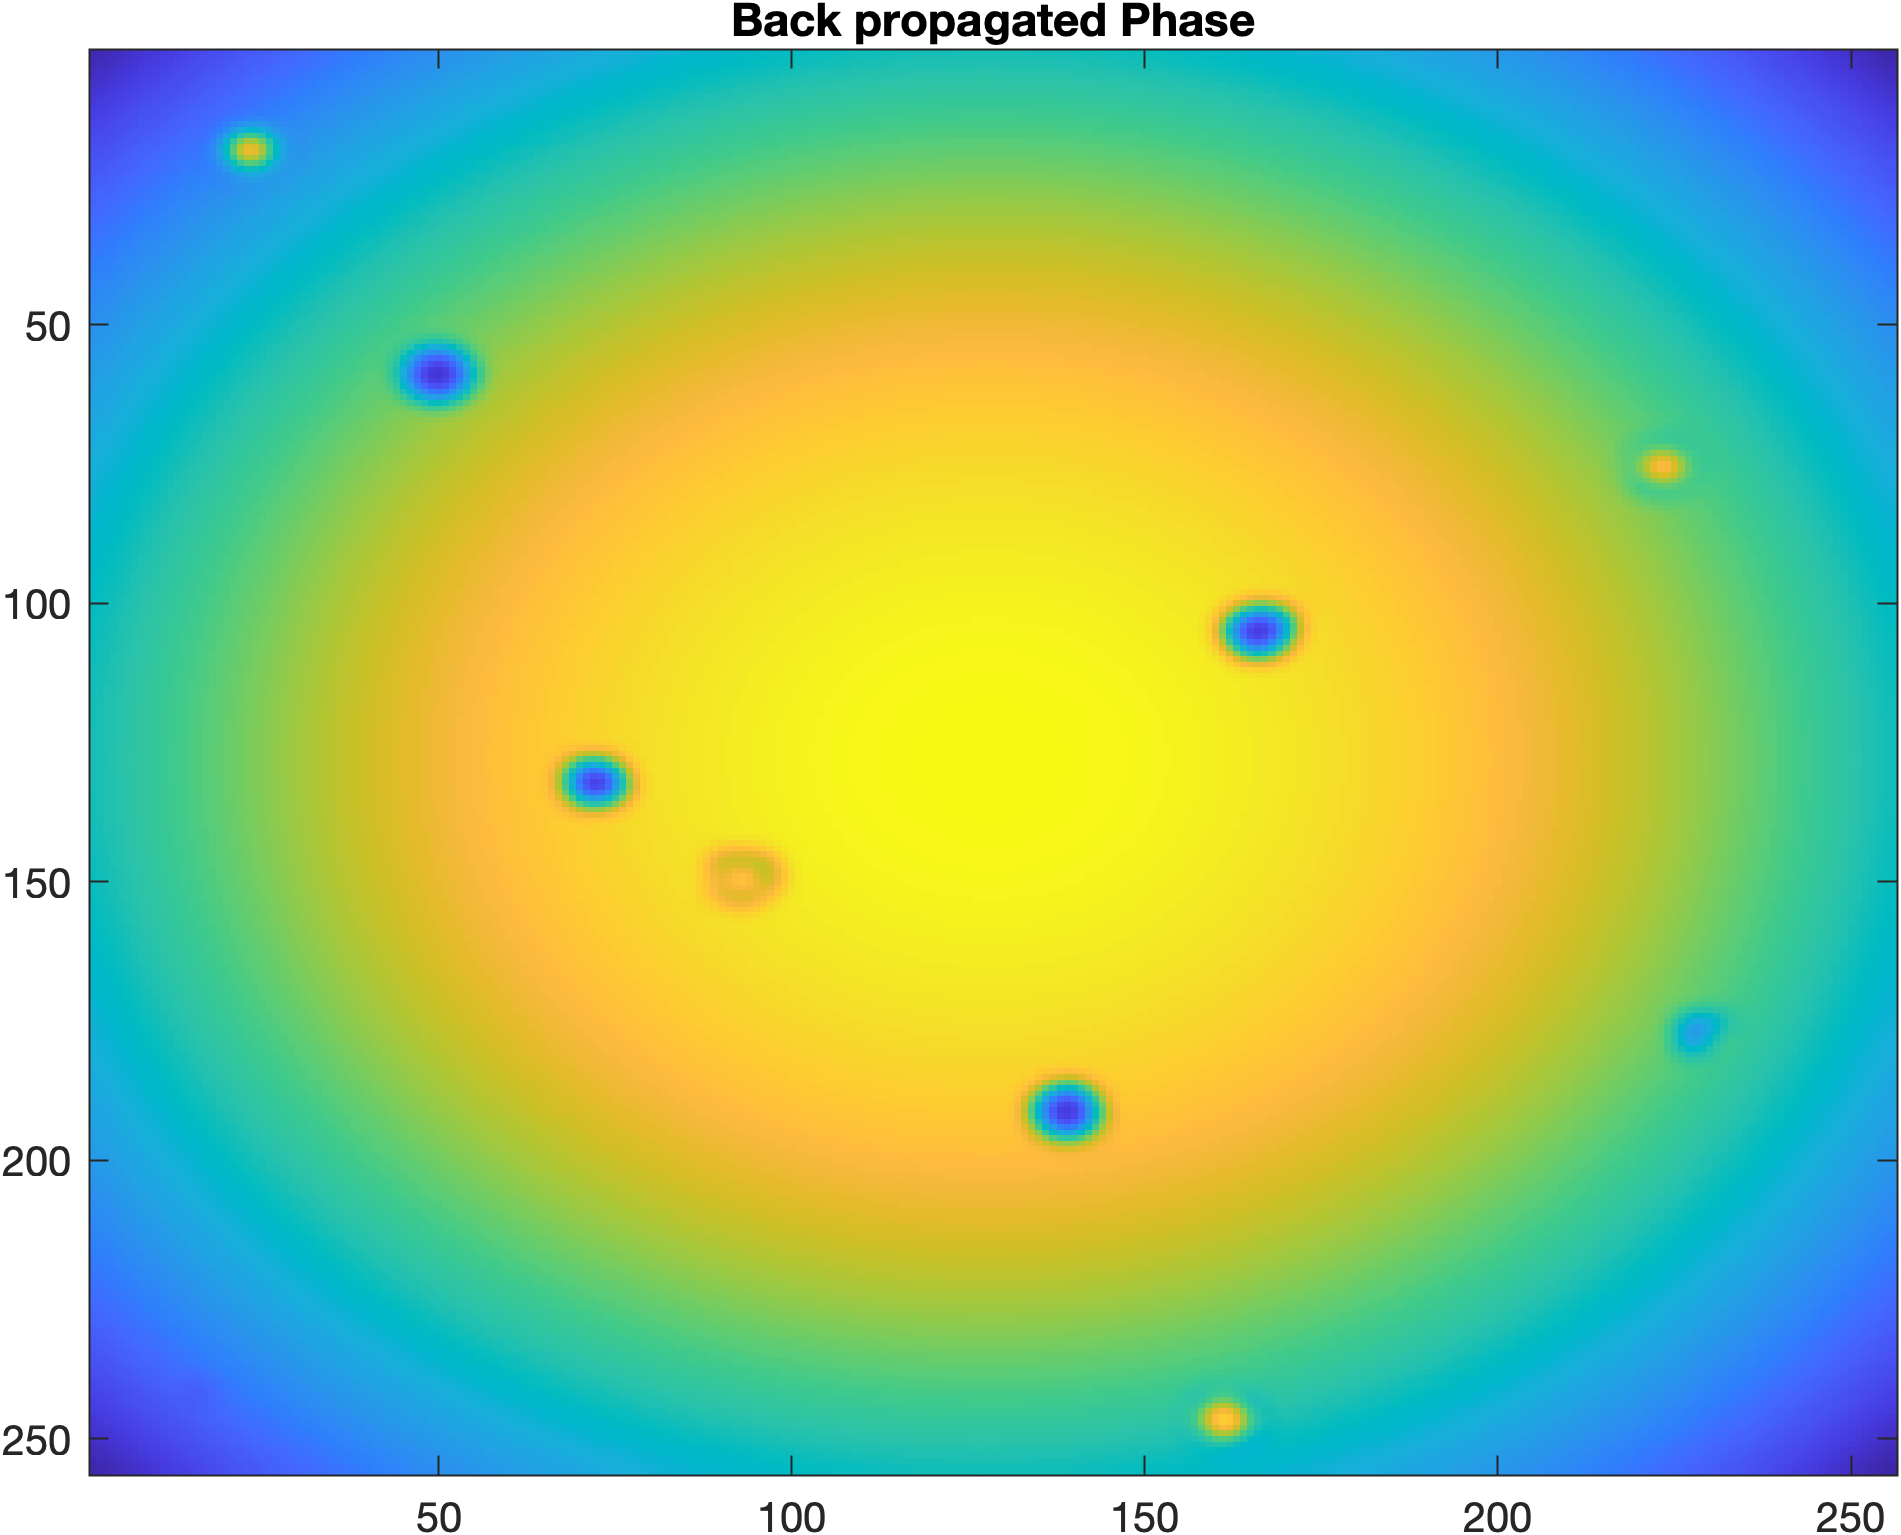
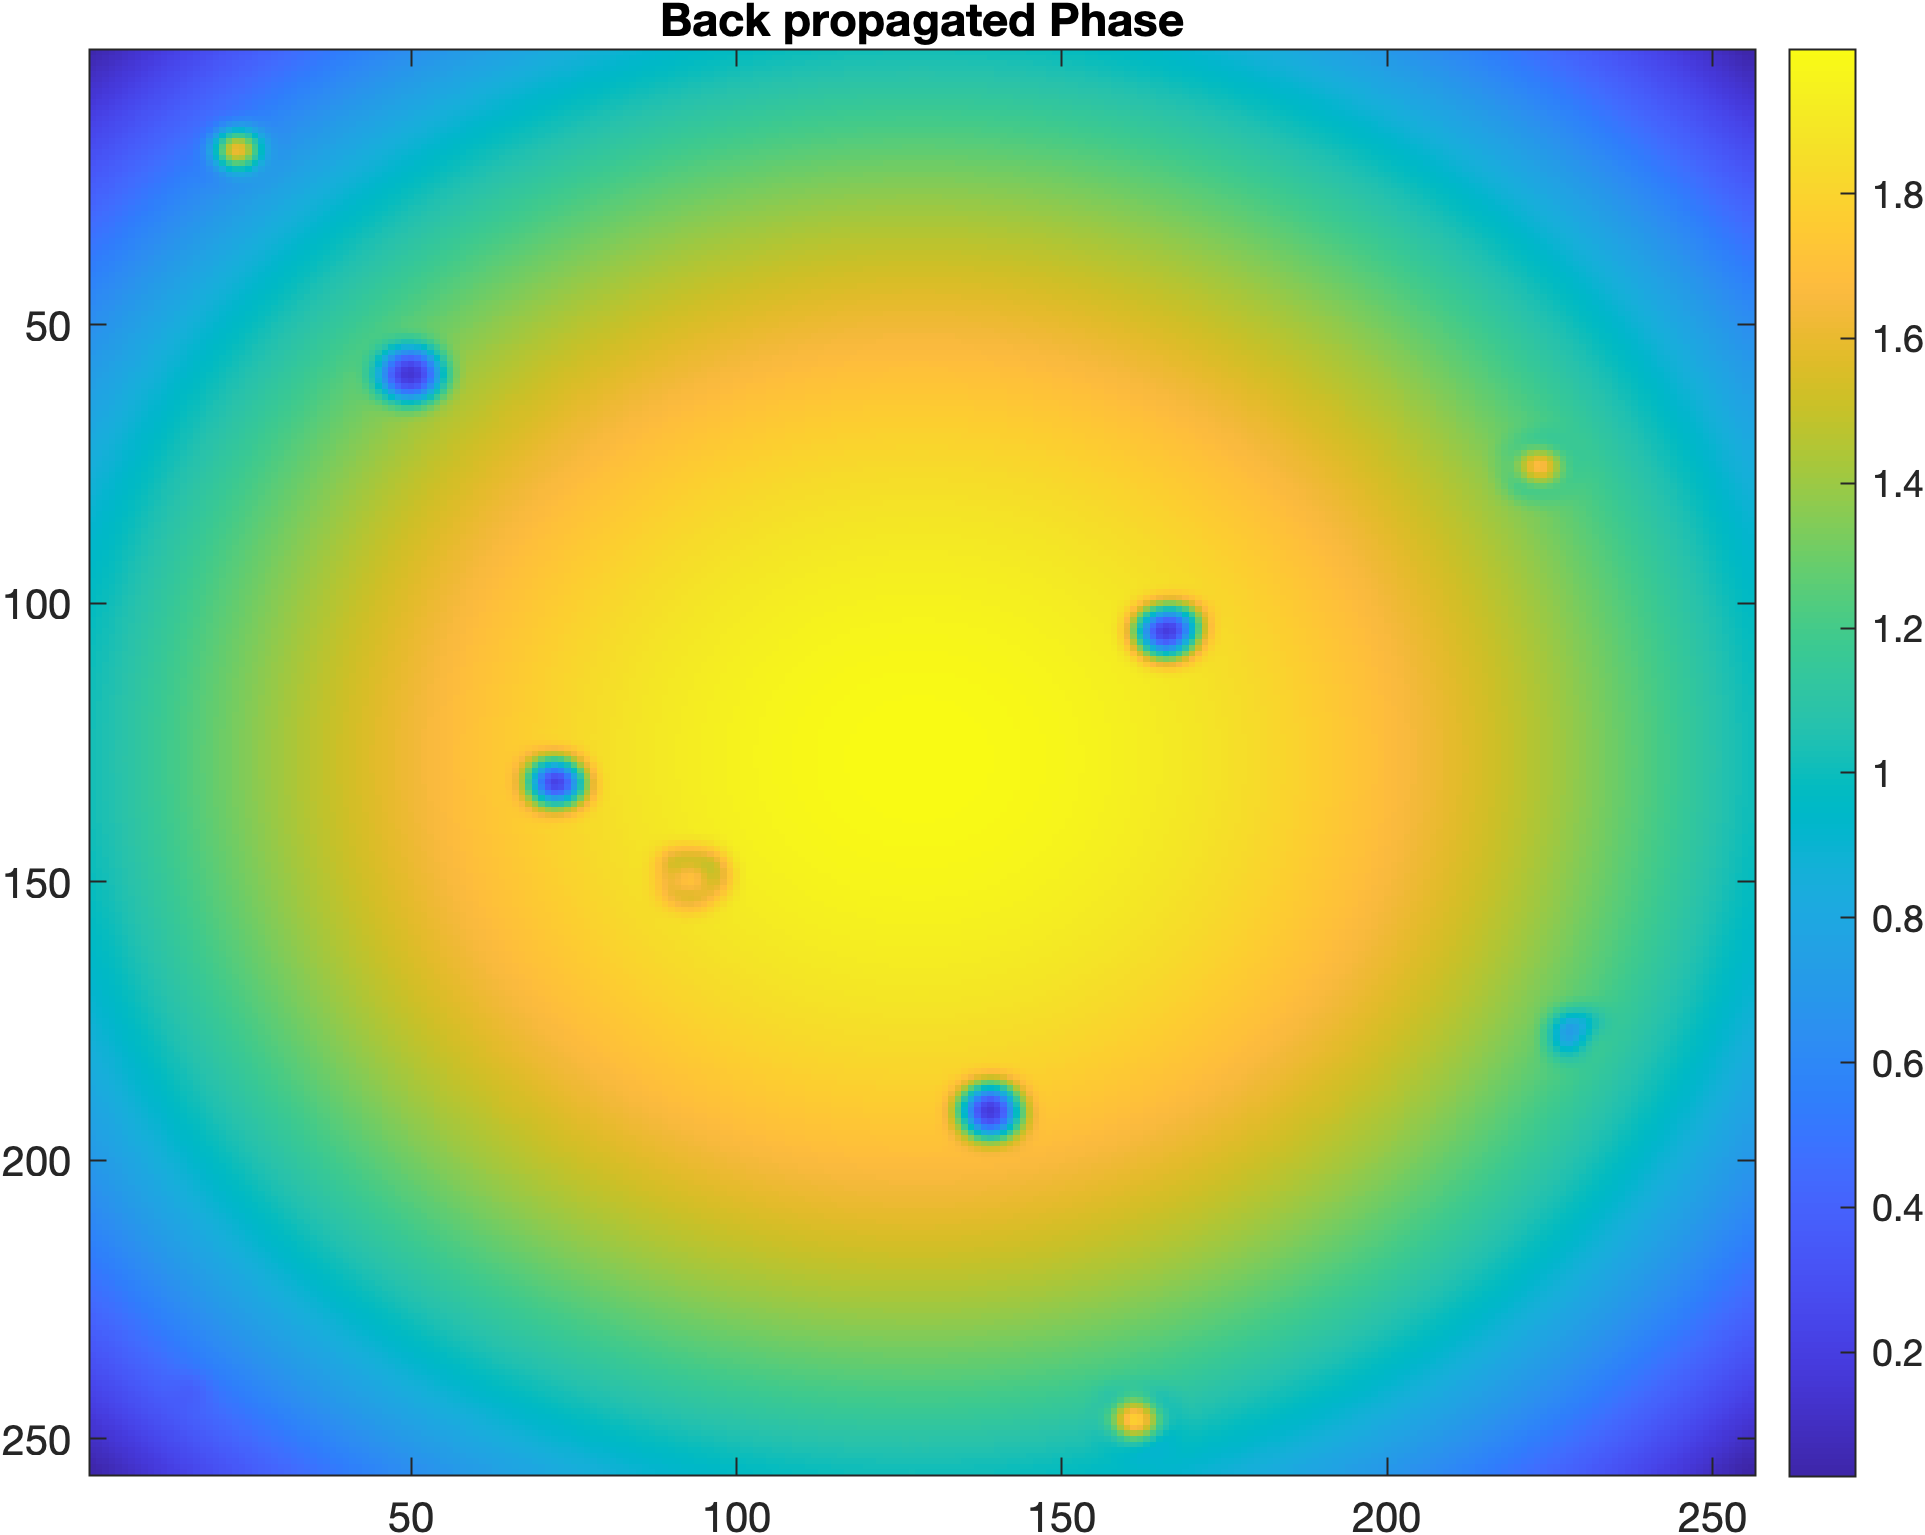
Final version of the code and images

diff --git a/MATLAB_MultiPhase/Main.m b/MATLAB_MultiPhase/Main.m
@@ -53,7 +53,8 @@ U = sqrt(I) .*exp(Phi*1i);
 %%%%%%%%%%%%%%%%%%%%  Display the Object  %%%%%%%%%%%%%%%%%%%%%%%%
 figure(1)
 % mesh(X,Y,abs(U));
-imagesc(abs(U));
+imagesc(abs(U).^2);
+colorbar;
 title("Object Intensity");
 ax = gcf;
 exportgraphics(ax,'Object_Intensity.png','Resolution',300);
@@ -61,6 +62,7 @@ exportgraphics(ax,'Object_Intensity.png','Resolution',300);
 figure (2)
 % mesh(X,Y,angle(U));
 imagesc(angle(U));
+colorbar;
 title("Object Phase");
 ax = gcf;
 exportgraphics(ax,'Object_Phase.png','Resolution',300);
@@ -73,6 +75,7 @@ exportgraphics(ax,'Object_Phase.png','Resolution',300);
 figure(3)
 % mesh(X,Y,I_n);
 imagesc(I_n);
+colorbar;
 title("Recorded Intensity pattern");
 ax = gcf;
 exportgraphics(ax,'Recorded_Intensity.png','Resolution',300);
@@ -80,6 +83,7 @@ exportgraphics(ax,'Recorded_Intensity.png','Resolution',300);
 figure(4)
 % mesh(X,Y,Phi_n);
 imagesc(Phi_n);
+colorbar;
 title("Recorded Phase patern");
 ax = gcf;
 exportgraphics(ax,'Recorded_Phase.png','Resolution',300);
@@ -91,6 +95,7 @@ exportgraphics(ax,'Recorded_Phase.png','Resolution',300);
 figure(5)
 % mesh(X,Y,I_back);
 imagesc(I_back);
+colorbar;
 title("Back propagated Intensity");
 ax = gcf;
 exportgraphics(ax,'Back_Propagated_Intensity.png','Resolution',300);
@@ -98,6 +103,7 @@ exportgraphics(ax,'Back_Propagated_Intensity.png','Resolution',300);
 figure(6)
 % mesh(X,Y,Phi_back);
 imagesc(Phi_back);
+colorbar;
 title("Back propagated Phase");
 ax = gcf;
 exportgraphics(ax,'Back_Propagated_Phase.png','Resolution',300);
@@ -105,13 +111,22 @@ exportgraphics(ax,'Back_Propagated_Phase.png','Resolution',300);
 %%%%%%%%%%%%%%%%%%%%%%%%%%%%%%%%%%%%%%%%%%%%%%%%%%%%%%%%%%%%%%%%%%%%%%%%%
 
 %%%%%%%%%%%%%%%%%%%%  Phase Retrieved Wavefront  %%%%%%%%%%%%%%%%%%%%%%%%
-Retrieved_Phase = Phase_Retrieve(U,800,10,850);
+[~,Retrieved_Intensity,Retrieved_Phase] = Phase_Retrieve(U,800,5,850);
 
 figure(7)
 % mesh(X,Y,Retrieved_Phase);
 imagesc(Retrieved_Phase);
+colorbar;
 title("Retrieved Phase");
 ax = gcf;
 exportgraphics(ax,'Retrieved_Phase.png','Resolution',300);
+
+figure(8)
+% mesh(X,Y,Retrieved_Phase);
+imagesc(Retrieved_Intensity);
+colorbar;
+title("Reconstructed Intensity");
+ax = gcf;
+exportgraphics(ax,'Retrieved_Intensity.png','Resolution',300);
 
 %%%%%%%%%%%%%%%%%%%%%%%%%%%%%%%%%%%%%%%%%%%%%%%%%%%%%%%%%%%%%%%%%%%%%%%%%

diff --git a/MATLAB_MultiPhase/Phase_Retrieve.m b/MATLAB_MultiPhase/Phase_Retrieve.m
@@ -11,7 +11,7 @@
 
 %%%%%%%%%%%%%%%%%%%%%%%%%%%%%%%%%%%%%%%%%%%%%%%%%%%%%%%%%%%%%%%%%%%%%%%%%%%
 
-function [Phi_Retrieved] = Phase_Retrieve(U_Object,lambda_min,d_lambda,lambda_max)
+function [U_Retrieved,I_Retrieved,Phi_Retrieved] = Phase_Retrieve(U_Object,lambda_min,d_lambda,lambda_max)
 
 %%%%%%%%%%%%%%%%%%%%%%% Generating Recordings %%%%%%%%%%%%%%%%%%%%%%%%%%%%%
 Obj_Cam_Dist = 300;
@@ -42,7 +42,7 @@ phi_q = rand(256,256);
 MSE = 1000;
 Minimum_error = 1000;
 it = 10;
-MSE_trend = 0;
+MSE_trend = 100;
 a = 1;
 b = 1;
 next_lambda = lambda_min;
@@ -82,18 +82,26 @@ while MSE > 0 && it > 0
             %% Error Calculation
             D = abs((sqrt(I_front_t) - sqrt(I(:,:,q))))^2;
             MSE = sum(D(:))/numel(sqrt(I_front_t));
-%             fprintf("H_Error = %d\n",H_Error);
-%             fprintf("MSE = %d\n",MSE);
             if Minimum_error > MSE
                 Minimum_error = MSE;
                 Phi_Retrieved = Phi_back_t;
+                I_Retrieved = I_back_t;
+                U_Retrieved = U_back_t;
             end
-            MSE_trend = [MSE_trend; MSE];
+            MSE_trend = [MSE_trend; sqrt(MSE)];
             lambda = next_lambda;
     end
 end
 figure (10)
 plot(MSE_trend);
+xlabel("Iteration number");
+ylabel("Mean squared error");
+title("MSE Vs Iterations");
+grid minor;
+grid on;
+ax = gcf;
+exportgraphics(ax,'MSE.png','Resolution',300);
+
 figure(11)
 imagesc(h);
 colormap('hot');
